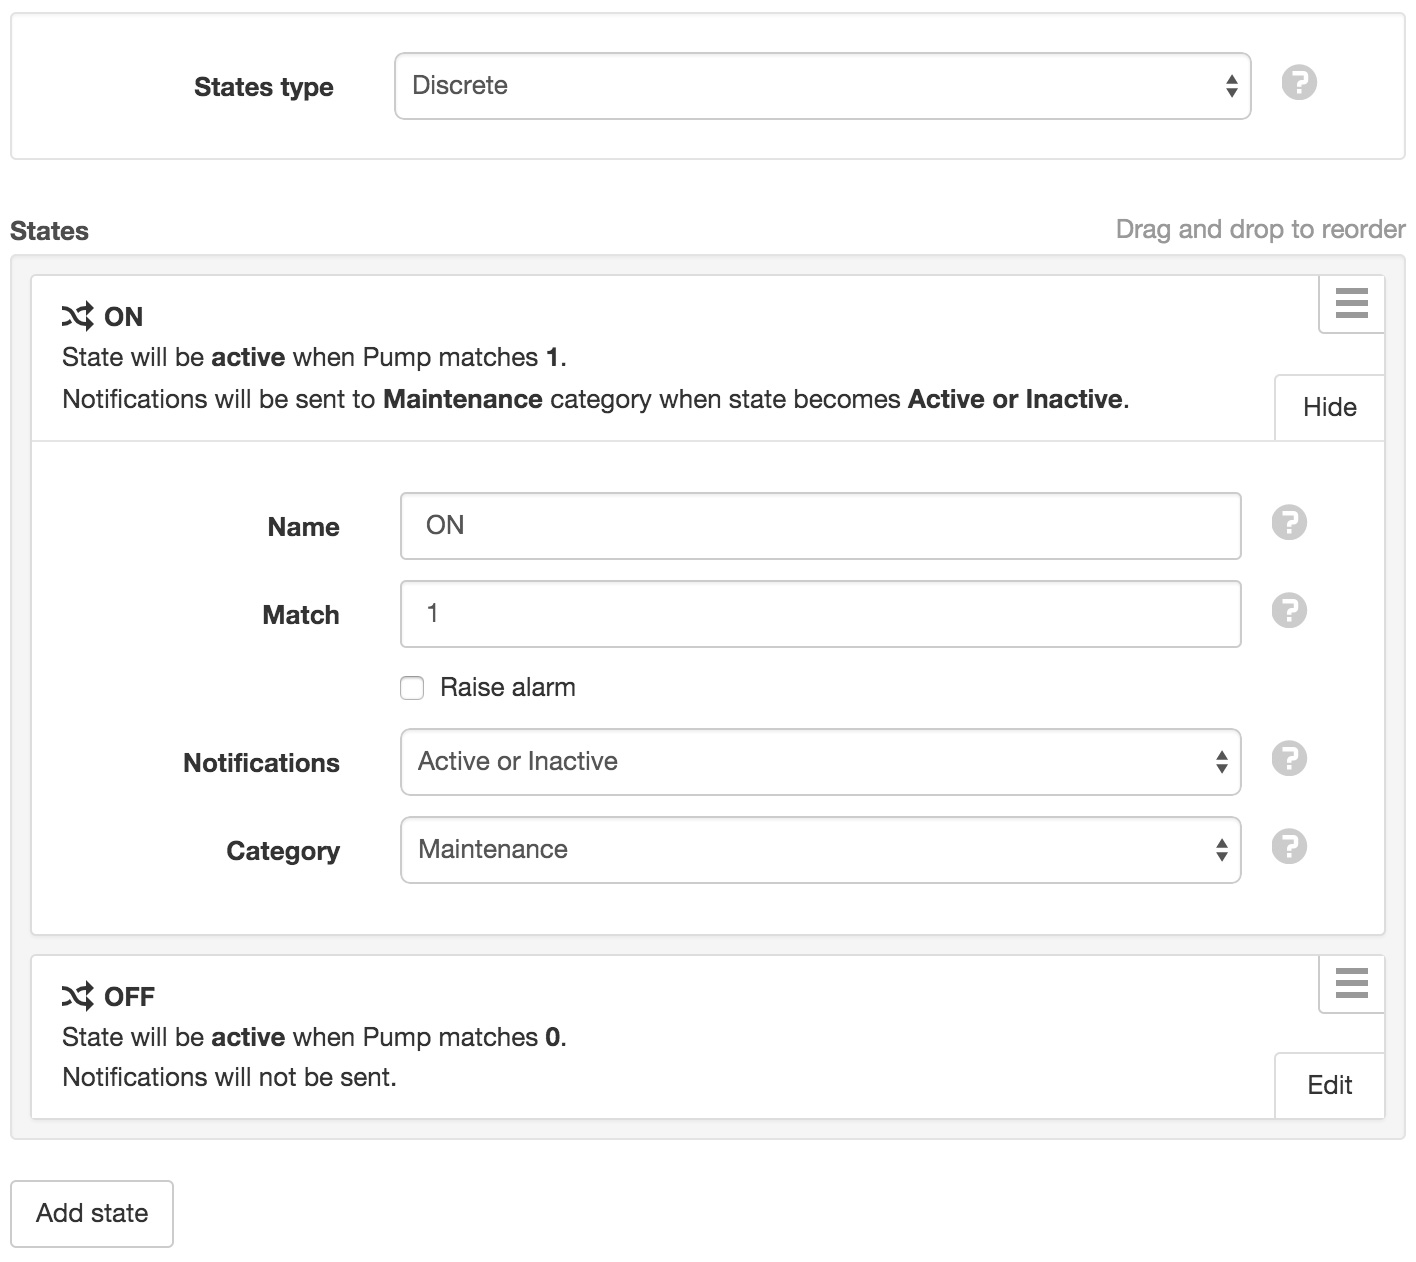
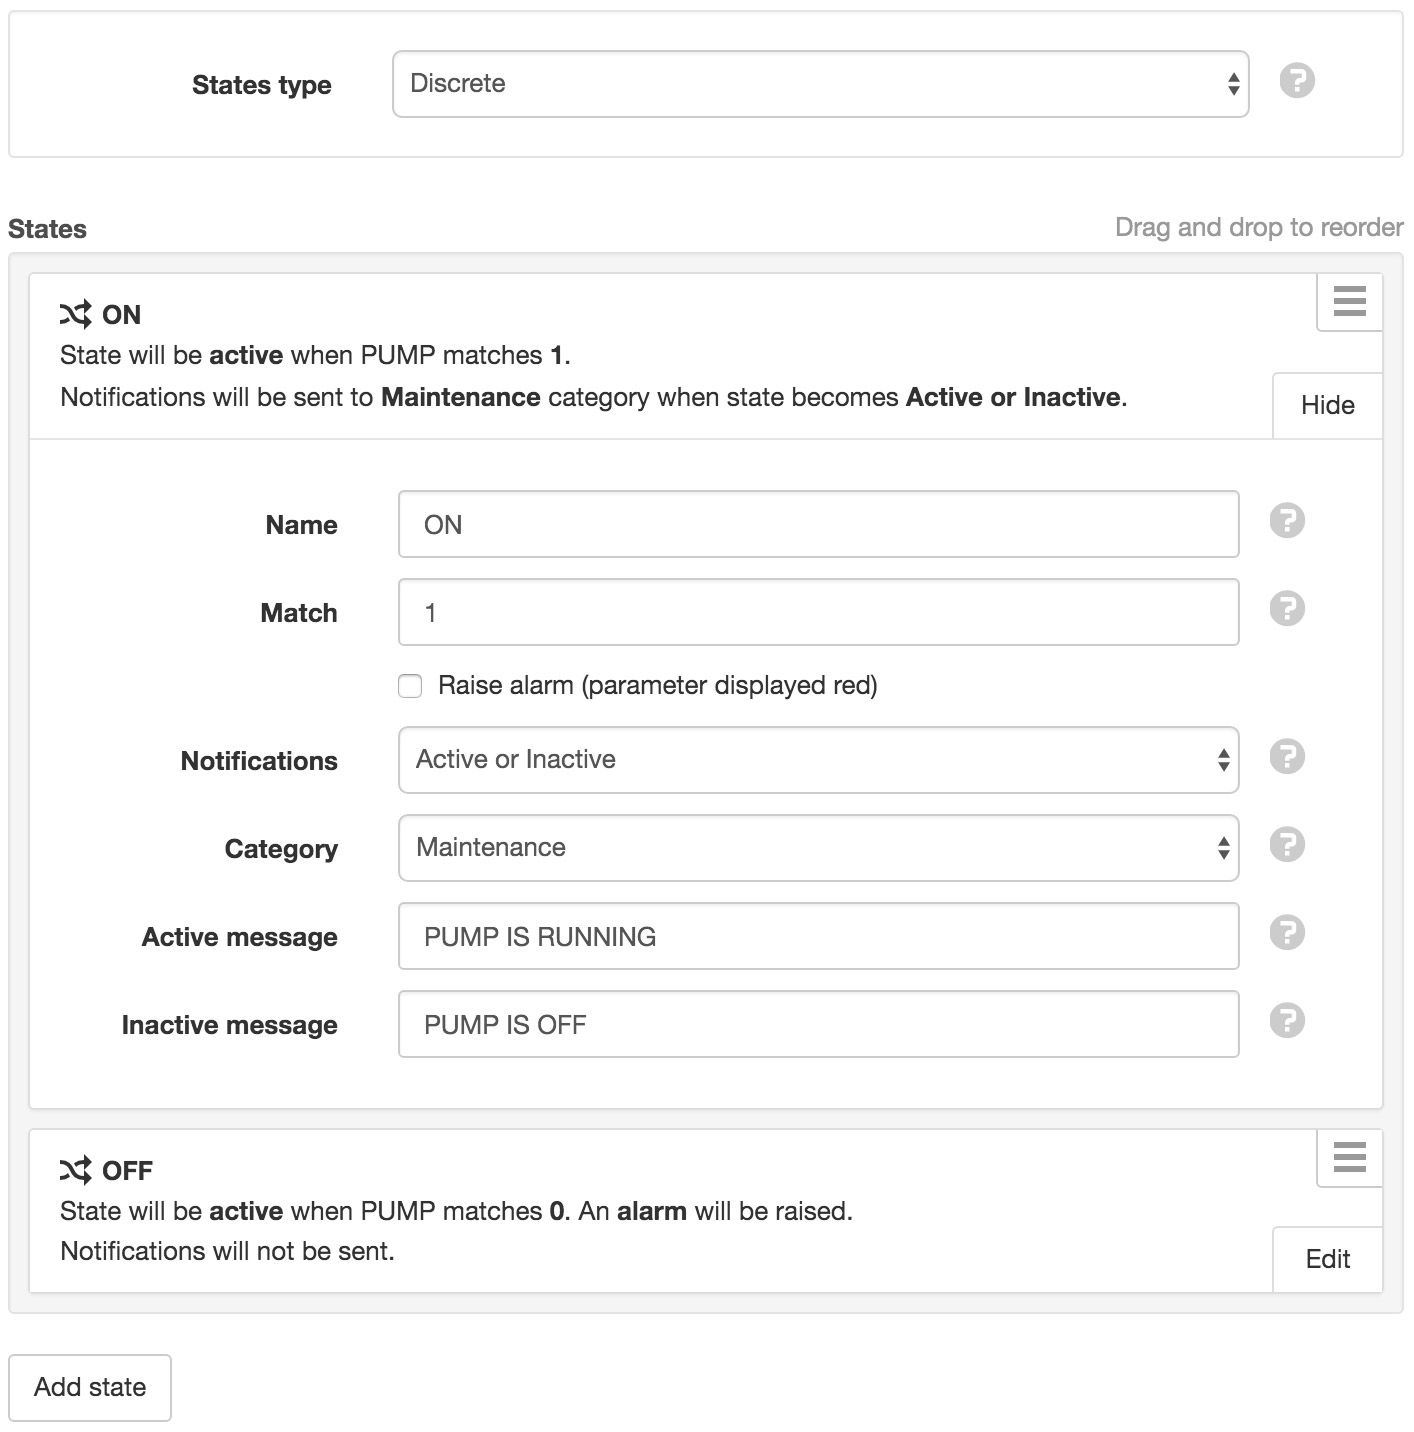
add active & inactive custom state messages

diff --git a/source/topics/nodes/parameter/index.rst b/source/topics/nodes/parameter/index.rst
@@ -215,6 +215,12 @@ Notifications
 Category
     Select the category of subscribed users that will receive notifications for this State. See :ref:`Alarms and Notifications <alarms-and-notifications>` for more info.
 
+Active message
+    Enter a custom message to send when the state becomes active. Leave blank for a default message that includes the state name, value and timestamp.
+
+Inactive message
+    Enter a custom message to send when the state becomes inactive. Leave blank for a default message that includes the state name, value and timestamp.
+
 .. only:: not latex
 
     |
